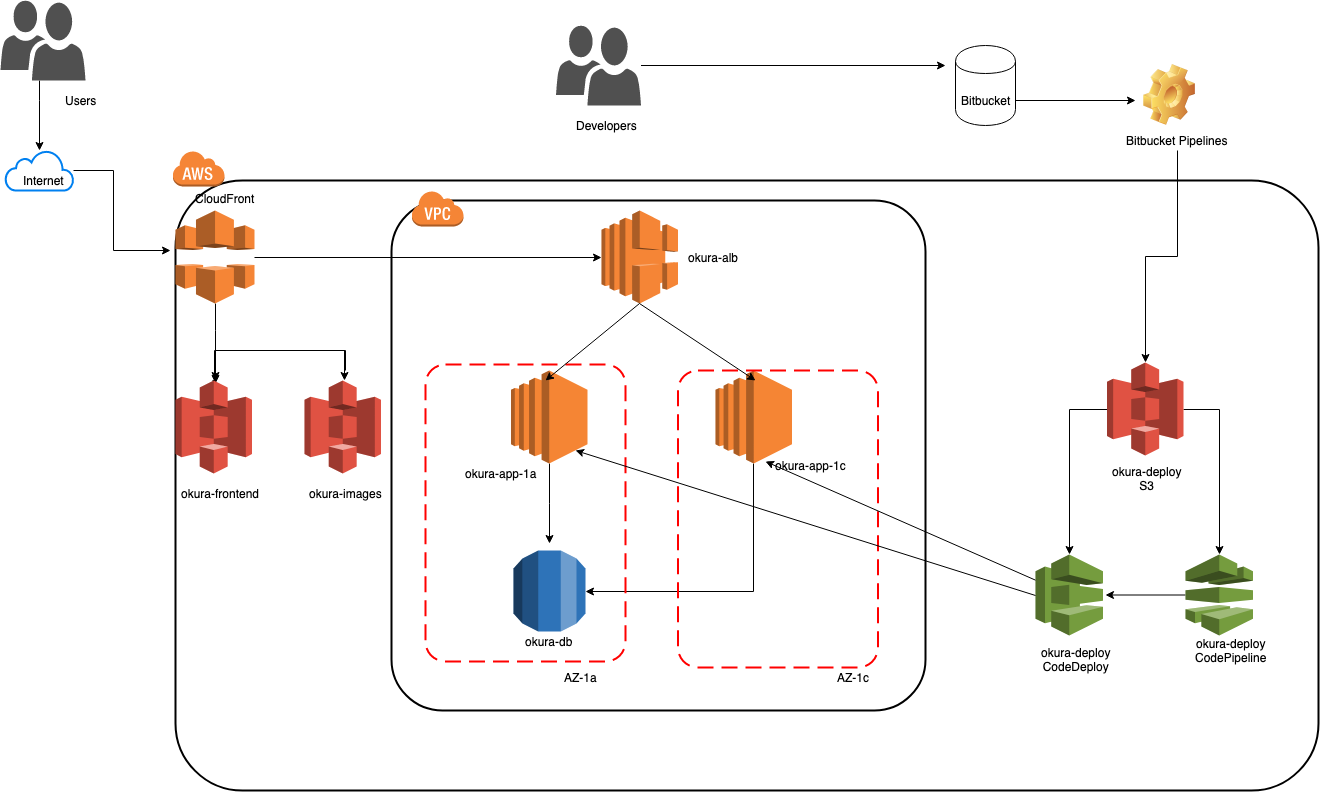
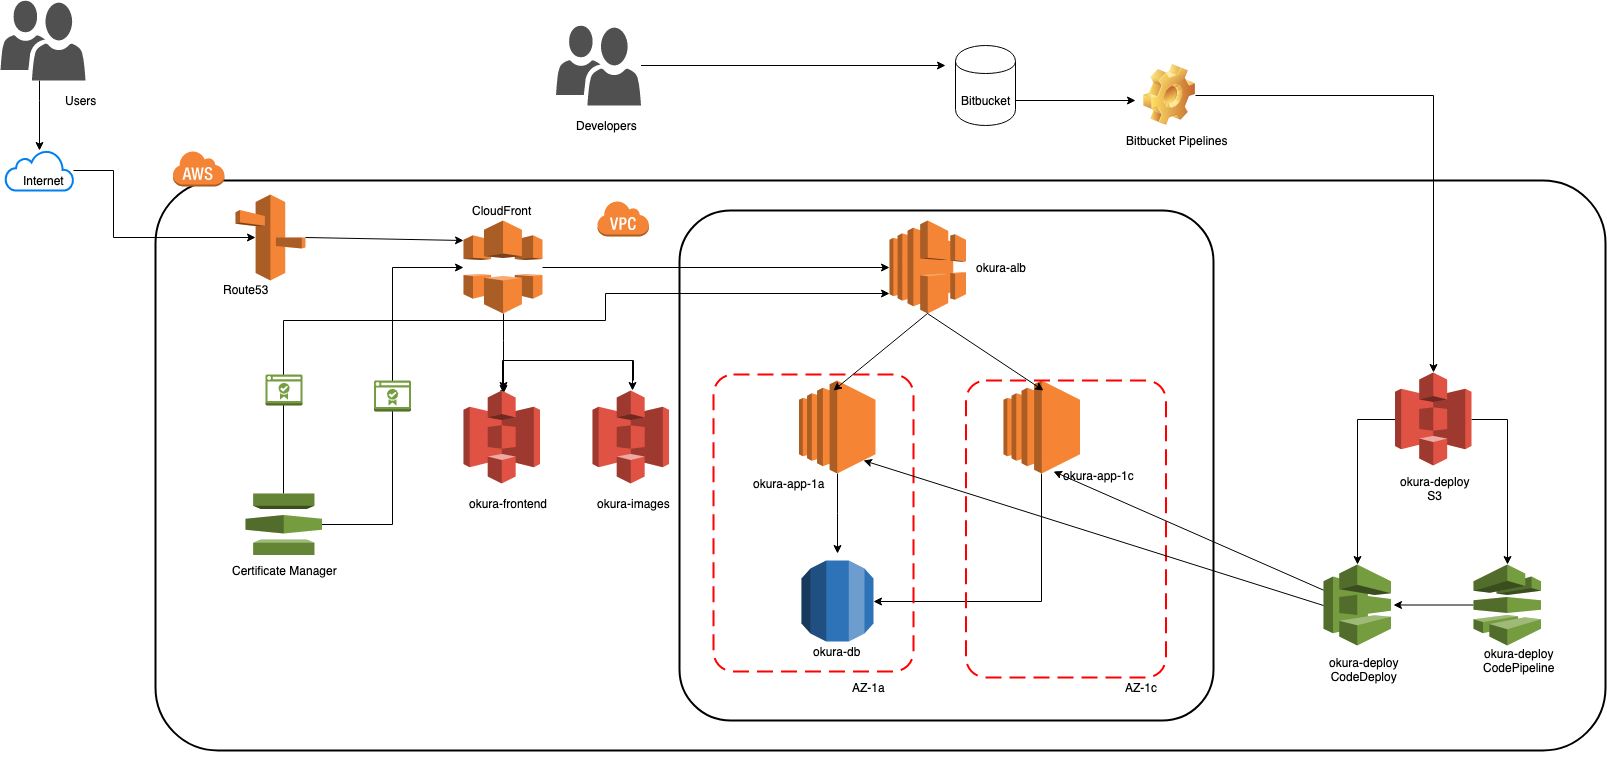
READMEとインフラ設計図修正

diff --git a/README.md b/README.md
@@ -1,18 +1,18 @@
-##インフラ課題3「CIサーバを使った自動デプロイ」
+##インフラ課題4「独自ドメインとSSL証明書の設定」
 
 ####概要
-bitbucketにソースをpushすると自動でec2にデプロイする
-デプロイ時APIサーバにアクセスするとメンテナンスページが表示される
+https://からはじまる独自ドメインでアクセスする
+http://でアクセスした場合は、https://にリダイレクトされる
+
 
 ####使用した技術
-- bitbucket pipelines 
-- S3
-- CodeDeploy 
-- CodePipeline
+- Route53 
 - CloudFront
+- Certificate Manager
+- ELB
 
 ####確認URL
-- http://dhxewfmlpcn2x.cloudfront.net/
+- https://www.okurashoichi.com/login
 
 ####インフラ設計図
 - 下記のパスに保存されております。
